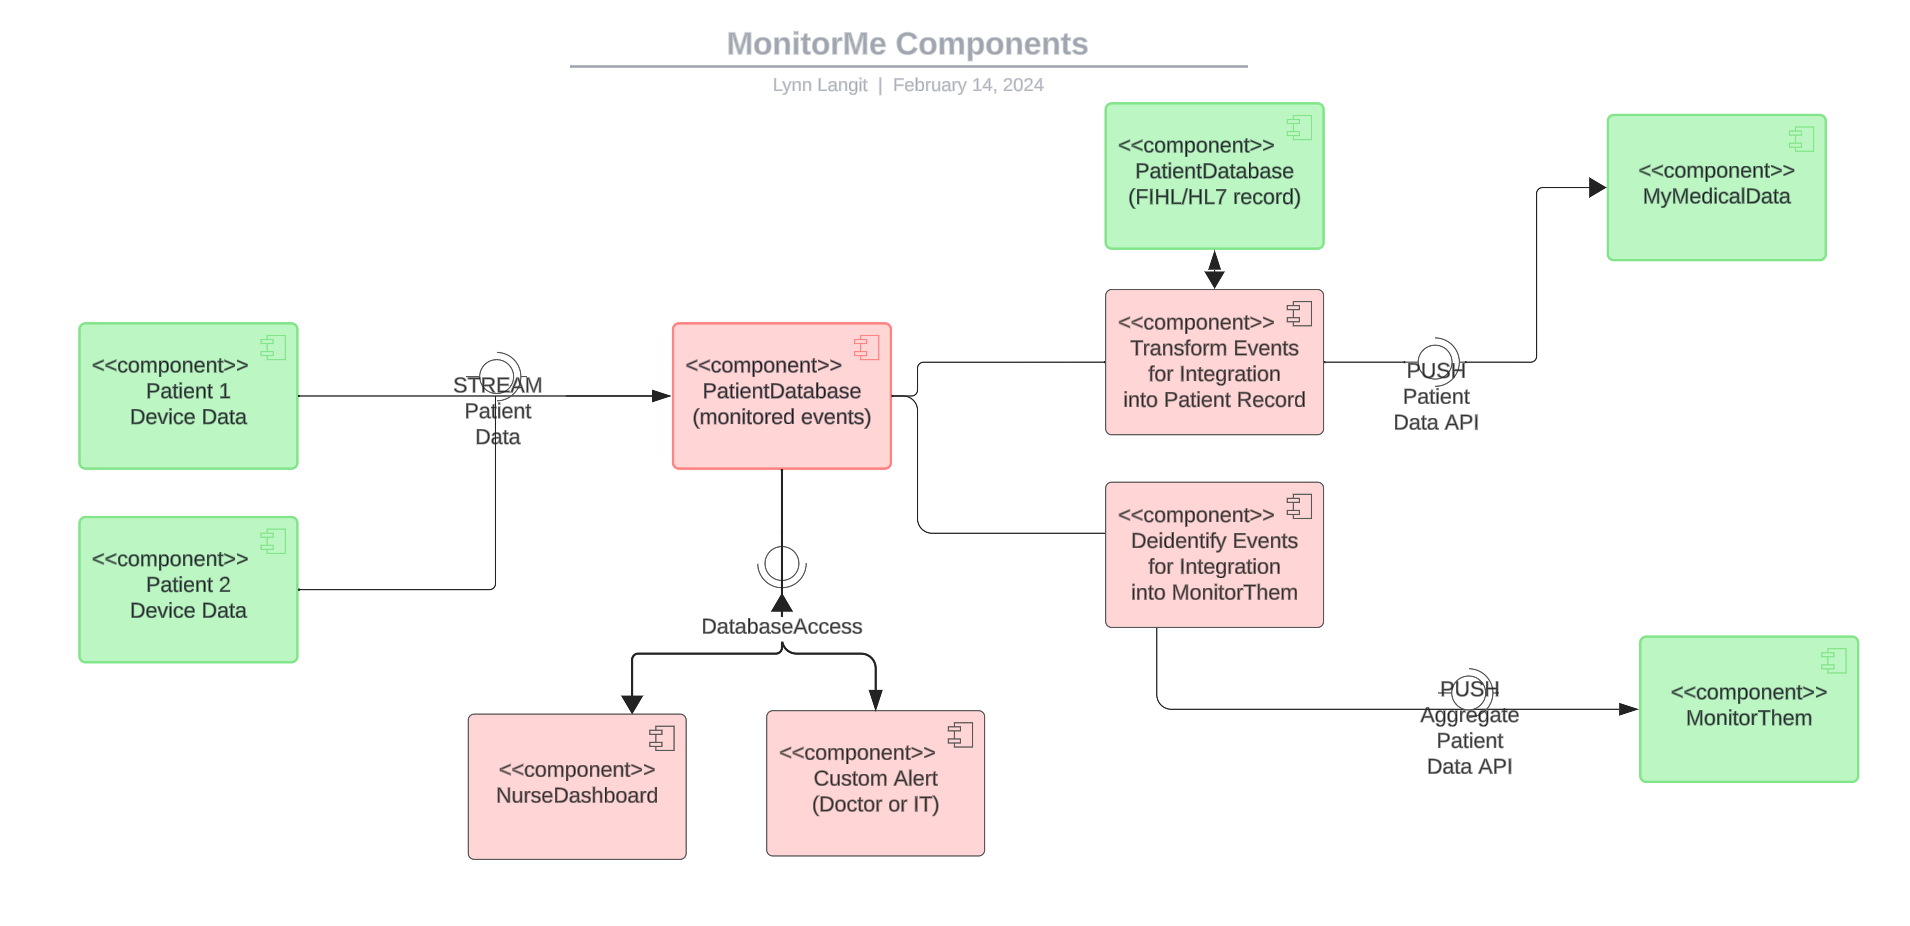
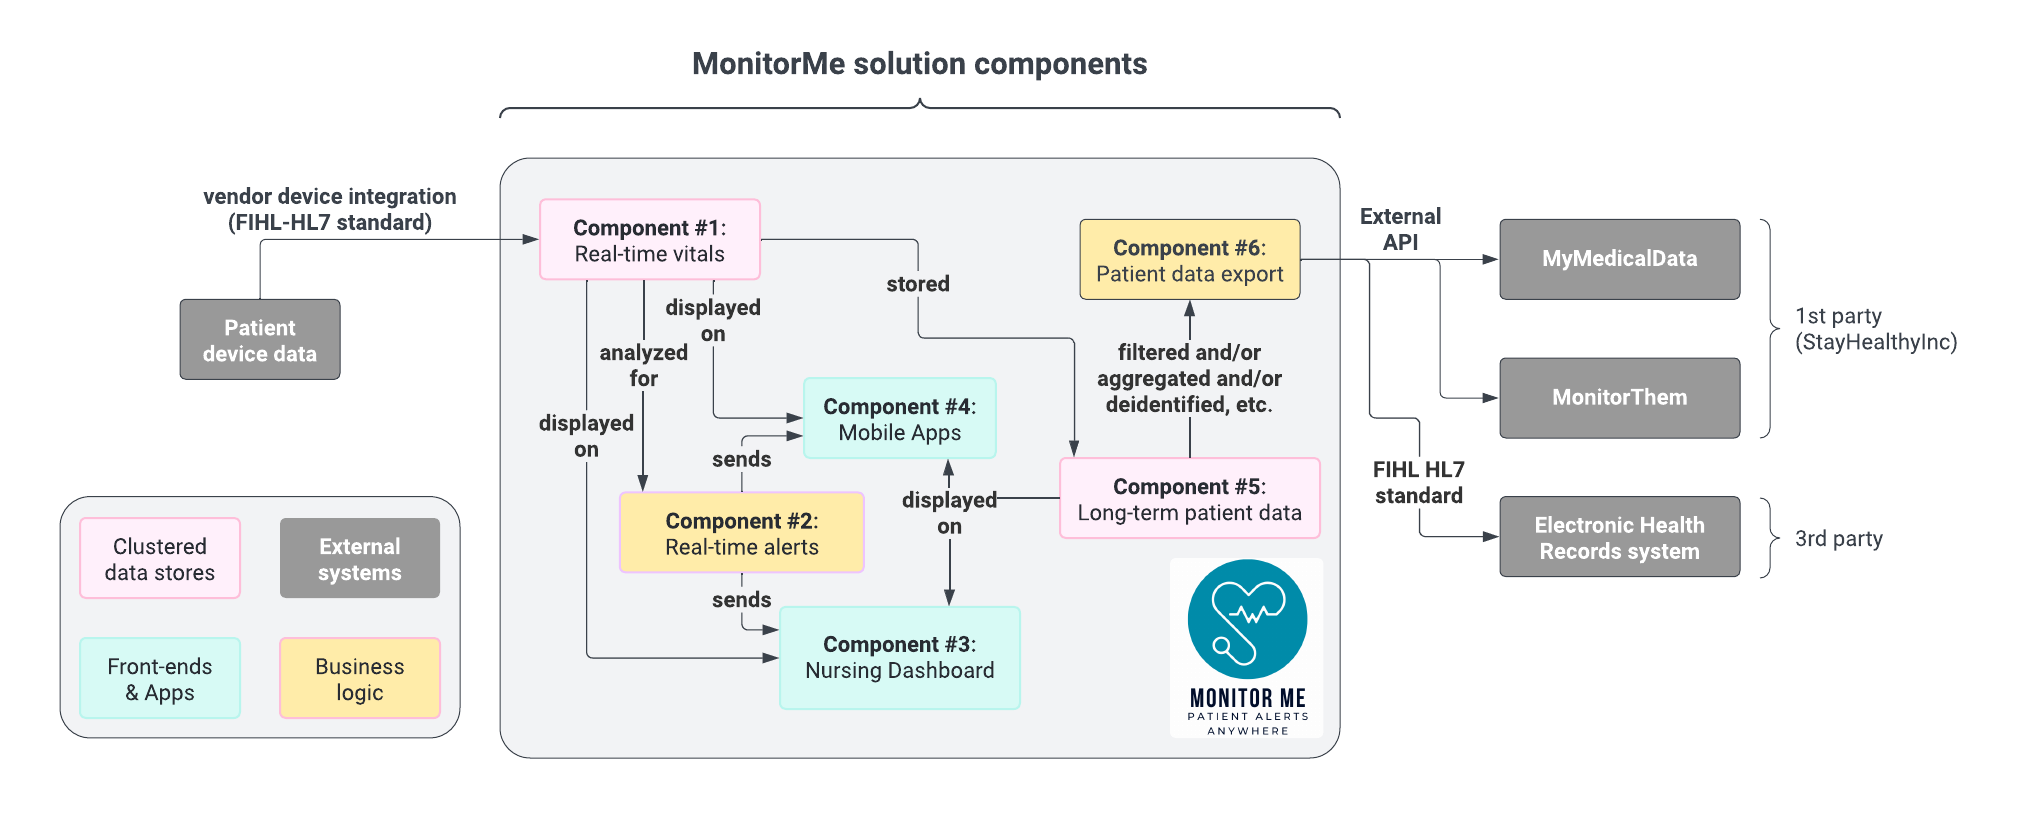
Updated components diagram + services layout

diff --git a/Kata-2024/ADRs/ADR-2A-services-design.md b/Kata-2024/ADRs/ADR-2A-services-design.md
@@ -2,7 +2,18 @@
 
 WIP determining service design. Will use to figure out service requirements from components
 
-Current estimation: a cluster of service workers each run asynchronous stream readers. Broker takes care of (re)distributing messages across active clients.
+The MonitorMe services implement the following components:
+
+![components overview](../images/components.png)
+
+There are 4 categories of components here:
+
+- real-time messages (data store)
+- SQL database (data store)
+- event-driven service workers (business logic)
+- front-ends & clients
+
+This ADR covers the services. (WIP high level overview)
 
 ![service layout](../images/services-layout.png)
 
